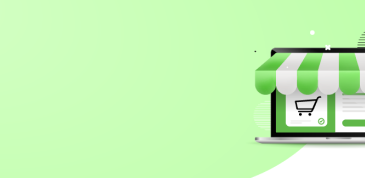
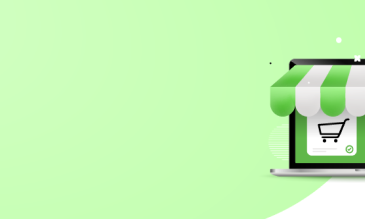
ajuste mensgaem afiliados

Changed region(s): [[0.6932, 0.1685, 1.0, 1.0], [0.9041, 0.1685, 0.9342, 0.1966], [0.8438, 0.1685, 0.874, 0.1966]]

diff --git a/public/index.html b/public/index.html
@@ -11,6 +11,9 @@
     <link rel="preconnect" href="https://fonts.googleapis.com">
     <link rel="preconnect" href="https://fonts.gstatic.com" crossorigin>
     <link href="https://fonts.googleapis.com/css2?family=Abel&family=Asap&display=swap" rel="stylesheet">
+    <link rel="preconnect" href="https://fonts.googleapis.com">
+<link rel="preconnect" href="https://fonts.gstatic.com" crossorigin>
+<link href="https://fonts.googleapis.com/css2?family=Abel&family=Asap&family=Waterfall&display=swap" rel="stylesheet">
     <meta charset="UTF-8">
     <meta http-equiv="X-UA-Compatible" content="IE=edge">
     <meta name="viewport" content="width=device-width, initial-scale=1.0">
@@ -26,11 +29,12 @@
         <div class="esquerda">
             <div class="subtitulo">Bem-vindo aos</div>
             <h1>Links da Anna</h1>
-            <div class="corpo">Clique nas imagens pra acessar o produto ou a categoria de produtos que você quer
-                comprar.</div>
+            <div class="corpo">Eu estou muito feliz com a sua visita!
+                Aqui você vai encontrar minhas dicas de descontos, promoções e produtos!
+                Obrigada por apoiar meu pequeno empreendimento! :)</div>
         </div>
         <div class="direita">
-            <div class="rodape">Como associado da Amazon, eu recebo por compras qualificadas.</div>
+            <div class="rodape">*Este site contém links apatrocinados. Como associado da Amazon, eu recebo por compras qualificadas.</div>
         </div>
     </div>
     </div>
@@ -119,7 +123,7 @@
         </div>
 
     </div>
-    <span class="rodapemobile">Como associado da Amazon, eu recebo por compras qualificadas.</span>
+    <!-- <span class="rodapemobile">*Este site contém links apatrocinados. Como associado da Amazon, eu recebo por compras qualificadas.</span> -->
    
     <!-- Global site tag (gtag.js) - Google Analytics -->
 <script async src="https://www.googletagmanager.com/gtag/js?id=G-1TTQ8EW4S1"></script>

diff --git a/public/style.css b/public/style.css
@@ -36,7 +36,7 @@ html{
 }
 
 .direita{
-    width: 40%;
+    width: 32%;
     display: flex;
     flex-direction: column;
     justify-content: flex-end;
@@ -120,15 +120,16 @@ html{
 }
 @media (max-width:45rem){
     .cabecalho{
-        padding: 1rem 0 0 1rem;
+        position: relative;
+        padding: 2rem 0 0 1rem;
         background-image: url(./imagens/Imagem\ cabeçalho\ mobile.png);
         background-repeat: no-repeat;
         background-position: top;
         background-size: contain;
-                height: 250px;
+        height: 250px;
         display: flex;
         justify-content: space-between;
-        margin-bottom: 2rem;
+        margin-bottom: 0rem;
     }
     
     .esquerda{
@@ -137,26 +138,32 @@ html{
         justify-content: flex-start;
         width: 100%;
         margin-left: 0px;
-    }
+        margin-top: 1rem;
+            }
     
     .direita{
         flex-wrap: nowrap;
-        width: 40%;
+        width: 37%;
         display: flex;
         flex-direction: column;
         justify-content: flex-end;
         flex-shrink: 0;
-        padding-bottom: 0px;
+        padding-bottom: px;
         margin-bottom: 0px;
+        
     }
     .rodape{
-        display:none ;
-        bottom: 0;
+        position: absolute;
+        bottom: 1rem;
         right: 0;
+        width: 15rem;
+        font-size: 0.5rem;
+        text-align: left;
+        padding-right: 0.5rem;
     }
     .cabecalho h1{
         font-family: asap;
-        font-size: 2.5rem;
+        font-size: 2.2rem;
         margin-left: -3px;
         line-height: 2.2rem;
 
@@ -180,9 +187,10 @@ html{
     .titulotestesgratis{
         margin-left: 1rem;
     }
-
+    
     .titulocategorias{
         padding-left: 1rem;
+        margin-top: 1rem;
     }
 
     .selecao{
